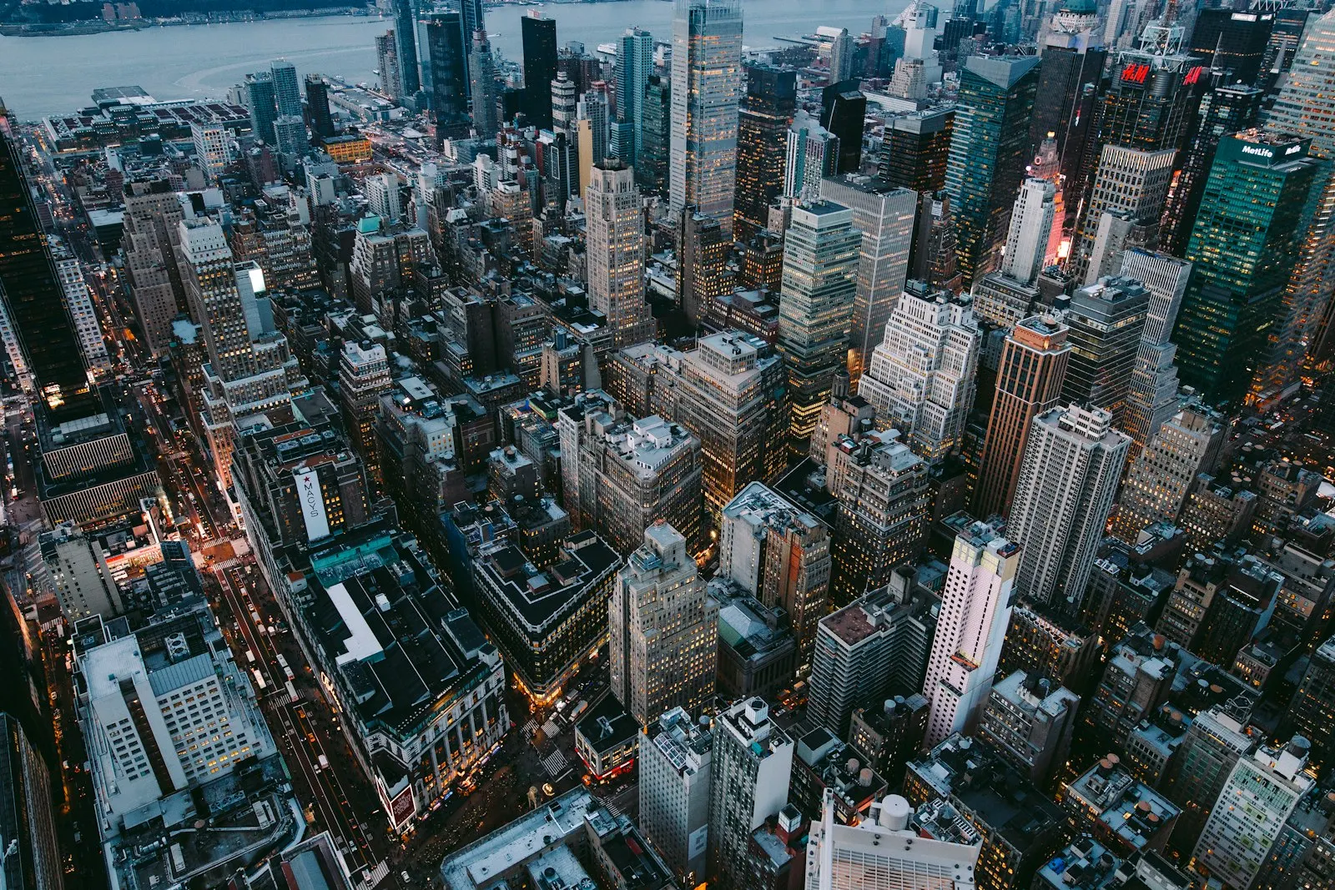
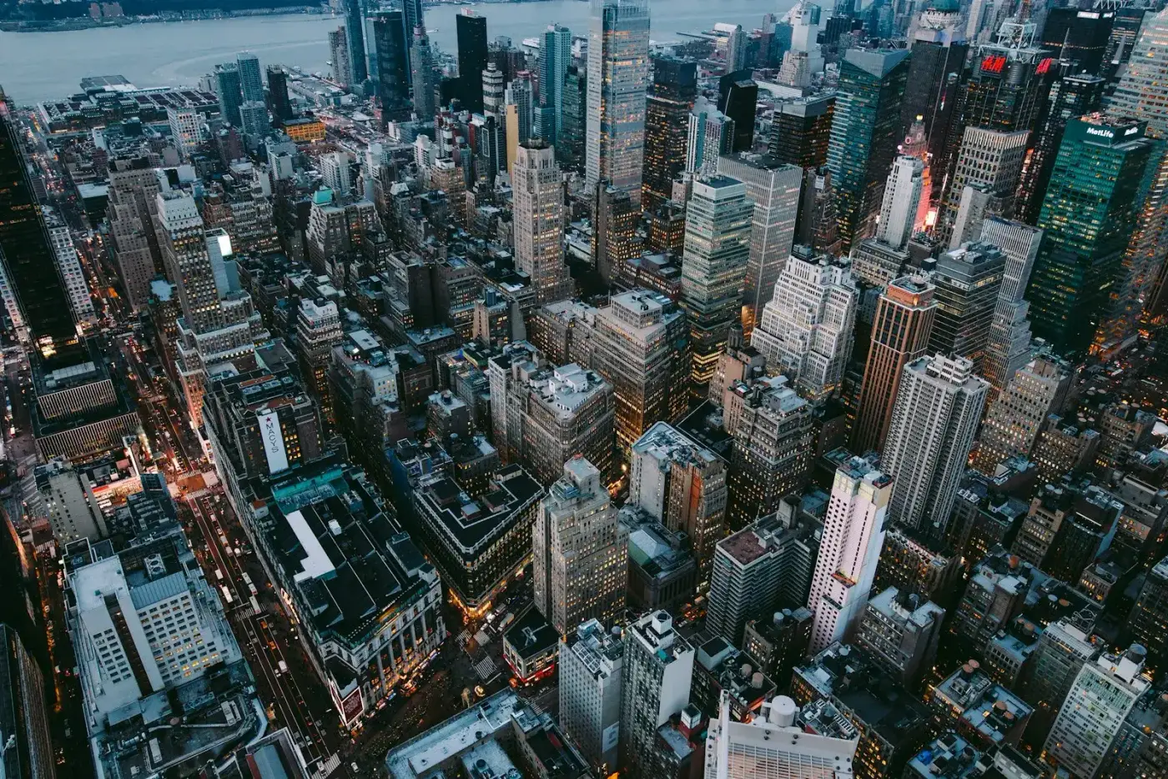
Stage 36: QA polish Plan Packs upgrade
- Smoothed two stylistic "you you" phrasings in Style Foundations
  Day 1 outcome and Morning Mastery Day 14 key insight.
- Re-encoded oversized morning-mastery-day-15.webp from 538KB to
  296KB (1600px q72 -> 1400px q68) to match peer image sizes.
  No filename change, no overlay reference change.
- Bumped JS cache to p38 (CSS stays at p34).

diff --git a/dashboard/dashboard.js b/dashboard/dashboard.js
@@ -8859,7 +8859,7 @@ var PACK_CONTENT_OVERLAY = {
     outcomes: [
       'A one-sentence personal style direction',
       'A neutral working palette you can re-buy in for years',
-      'A small core wardrobe that quietly fits the version of you you are becoming',
+      'A small core wardrobe that quietly fits the version of yourself you are becoming',
       'A defined fit standard you will not compromise on again',
       'A short, intentional shopping list — not a wishlist'
     ],
@@ -10294,7 +10294,7 @@ var PACK_CONTENT_OVERLAY = {
           + '<h3>Update the statements</h3>'
           + '<p>Refine the language. Drop a statement that no longer matters. Add one that emerged. The identity work is dynamic. The statements grow with you.</p>',
         whyItMatters: 'Identity is the substrate underneath every habit. Reviewing it keeps the protocol pointed at the man you are becoming.',
-        keyInsight: 'You become the version of you you practice — out loud, on purpose.',
+        keyInsight: 'You become the version of yourself you practice — out loud, on purpose.',
         example: 'A reader\'s Day 14 statement was "I am calm under pressure." On Day 19 he noted it was now true in three specific situations from the past two weeks. He updated it to a sharper version.',
         actionStep: 'Read your Day 14 statements today. Mark each one true or aspirational. Refine the language.',
         checklist: [

diff --git a/dashboard/dashboard.html b/dashboard/dashboard.html
@@ -1173,7 +1173,7 @@
   <!-- <script src="empire-map.js"></script> -->
 
   <!-- ══ Dashboard Logic ══ -->
-  <script src="dashboard.js?v=p37"></script>
+  <script src="dashboard.js?v=p38"></script>
 
 </body>
 </html>
